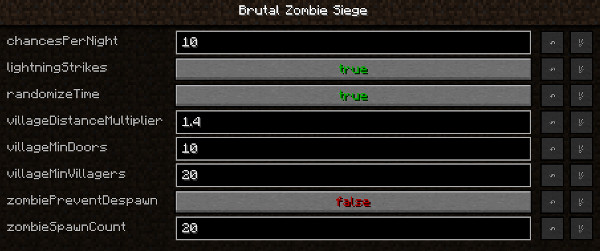
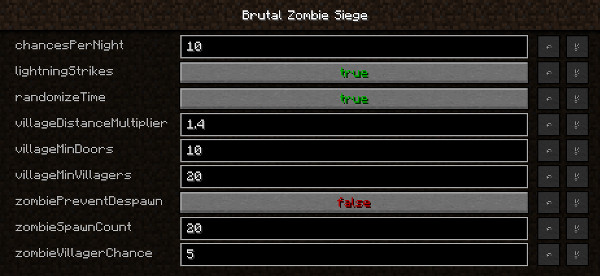
A bit of code cleanup, added support for registering other SiegeAIBase handlers, Zombie Villager chances are now adjustable.

diff --git a/src/main/java/net/micmu/mcmods/micsiege/core/SiegeCore.java b/src/main/java/net/micmu/mcmods/micsiege/core/SiegeCore.java
@@ -1,6 +1,12 @@
 package net.micmu.mcmods.micsiege.core;
 
 import java.lang.reflect.Field;
+import java.util.ArrayList;
+import java.util.HashSet;
+import java.util.List;
+import java.util.Set;
+
+import javax.annotation.Nonnull;
 
 import net.minecraft.village.VillageSiege;
 import net.minecraft.world.WorldServer;
@@ -15,6 +21,7 @@ import net.micmu.mcmods.micsiege.MicSiegeMod;
 public class SiegeCore {
     private static final SiegeCore INSTANCE = new SiegeCore();
 
+    private final Set<Class<? extends SiegeAIBase>> siegeClasses = new HashSet<>(4);
     private boolean exceptionDumped = false;
     private Field injectField = null;
 
@@ -30,6 +37,24 @@ public class SiegeCore {
      *
      */
     private SiegeCore() {
+        // The default siege... only 1 so far.
+        registerSiege(SiegeZombies.class);
+    }
+
+    /**
+     *
+     * @param siegeAIClass
+     */
+    public void registerSiege(@Nonnull Class<? extends SiegeAIBase> siegeAIClass) {
+        siegeClasses.add(siegeAIClass);
+    }
+
+    /**
+     *
+     * @param siegeAIClass
+     */
+    public void unregisterSiege(@Nonnull Class<? extends SiegeAIBase> siegeAIClass) {
+        siegeClasses.remove(siegeAIClass);
     }
 
     /**
@@ -37,7 +62,7 @@ public class SiegeCore {
      * @param world
      * @return
      */
-    public boolean setupWorld(WorldServer world) {
+    public boolean initializeWorld(@Nonnull WorldServer world) {
         final int dimension = world.provider.getDimension();
         try {
             Field f = this.injectField;
@@ -47,28 +72,64 @@ public class SiegeCore {
                 this.injectField = f;
             }
             VillageSiege siege = (VillageSiege)f.get(world);
-            if ((dimension == -1) || (dimension == 1)) {
+            List<SiegeAIBase> handlers = createSiegeHandlers(world);
+            if (handlers.isEmpty()) {
                 // Disable village siege mechanics in Nether and End
                 if (!(siege instanceof VillageSiegeDisable)) {
                     f.set(world, new VillageSiegeDisable());
                     if (MicSiegeMod.LOG.isDebugEnabled())
-                        MicSiegeMod.LOG.debug("Disabled Zombie Siege mechanics for world: " + dimension + " [" + world.getClass().getName() + "]");
+                        MicSiegeMod.LOG.debug("Disabled Zombie Siege mechanics for world " + dimension + ".");
                     return true;
                 }
             } else if (!(siege instanceof VillageSiegeManager)) {
-                f.set(world, new VillageSiegeManager(world));
-                if (MicSiegeMod.LOG.isDebugEnabled())
-                    MicSiegeMod.LOG.debug("Injected replacement Zombie Siege mechanics for world: " + dimension + " [" + world.getClass().getName() + "]");
+                f.set(world, new VillageSiegeManager(world, handlers.toArray(new SiegeAIBase[handlers.size()])));
+                if (MicSiegeMod.LOG.isDebugEnabled()) {
+                    StringBuilder sb = new StringBuilder(128);
+                    sb.append("Injected replacement Zombie Siege mechanics for world ");
+                    sb.append(dimension);
+                    sb.append(" (");
+                    boolean v = false;
+                    for (SiegeAIBase b : handlers) {
+                        if (v)
+                            sb.append(", ");
+                        else
+                            v = true;
+                        sb.append(b.getClass().getName());
+                    }
+                    sb.append(')');
+                    MicSiegeMod.LOG.debug(sb.toString());
+                }
                 return true;
             }
         } catch (Throwable t) {
             this.injectField = null;
             if (!exceptionDumped) {
                 exceptionDumped = true;
-                MicSiegeMod.LOG.error("Minecraft/Forge compatiblitiy issue?", t);
+                MicSiegeMod.LOG.error("Minecraft/Forge/other mod compatiblitiy issue?", t);
             }
             MicSiegeMod.LOG.error("*** Failed to set up Zombie Siege mechanics! Enchanced Zombie Siege mechanics will not work! ***");
         }
         return false;
+    }
+
+    /**
+     *
+     * @param world
+     * @return
+     * @throws InstantiationException
+     * @throws IllegalAccessException
+     */
+    private List<SiegeAIBase> createSiegeHandlers(@Nonnull WorldServer world) throws InstantiationException, IllegalAccessException {
+        List<SiegeAIBase> out = new ArrayList<>();
+        int i = 0;
+        SiegeAIBase b;
+        for (Class<? extends SiegeAIBase> c : siegeClasses) {
+            b = c.newInstance();
+            b.setWorld(world);
+            if (b.onInitializeWorld())
+                out.add(b);
+            b.setWorld(null);
+        }
+        return out;
     }
 }

diff --git a/src/main/java/net/micmu/mcmods/micsiege/core/SiegeZombies.java b/src/main/java/net/micmu/mcmods/micsiege/core/SiegeZombies.java
@@ -41,6 +41,15 @@ public class SiegeZombies extends SiegeAIBase {
      *
      */
     @Override
+    protected boolean onInitializeWorld() {
+        int d = getWorld().provider.getDimension();
+        return (d != -1) && (d != 1); // No Zombie Siege in Nether and End
+    }
+
+    /**
+     *
+     */
+    @Override
     protected void onStop() {
         siegePos = null;
         huskCache = null;
@@ -138,12 +147,10 @@ public class SiegeZombies extends SiegeAIBase {
     @Override
     protected void tick() {
         EntityZombie z;
-        int r = getRNG().nextInt(100);
-        if ((r < 20) && (r >= 10)) {
-            // Spawns Zombie Villagers also
+        int c = Config.zombieVillagerChance;
+        if ((c > 0) && ((c >= 100) || (c > getRNG().nextInt(100)))) {
             z = new EntityZombieVillager(getWorld());
-        } else if ((r >= 50) && isHuskBiome()) {
-            // In a desert, spawn husks also
+        } else if (isHuskBiome() && getRNG().nextBoolean()) {
             z = new EntityHusk(getWorld());
         } else {
             z = new EntityZombie(getWorld());

diff --git a/src/main/java/net/micmu/mcmods/micsiege/core/SiegeAIBase.java b/src/main/java/net/micmu/mcmods/micsiege/core/SiegeAIBase.java
@@ -107,14 +107,6 @@ public abstract class SiegeAIBase {
 
     /**
      *
-     * @return
-     */
-    protected String getUnlocalizedName() {
-        return "micvillage.siege.start";
-    }
-
-    /**
-     *
      * @param precise
      * @return
      */
@@ -141,6 +133,14 @@ public abstract class SiegeAIBase {
      *
      */
     protected void onCheck() {
+    }
+
+    /**
+     *
+     * @return
+     */
+    protected boolean onInitializeWorld() {
+        return true;
     }
 
     /**

diff --git a/src/main/java/net/micmu/mcmods/micsiege/Config.java b/src/main/java/net/micmu/mcmods/micsiege/Config.java
@@ -39,4 +39,8 @@ public class Config {
 
     @Comment("If 'true', spawned zombies will not despawn until killed.\nThis option is useful if you are using large 'villageDistanceMultiplier'.")
     public static boolean zombiePreventDespawn = false;
+
+    @Comment("Chance for a Zombie Villager to spawn instead of a regular one (percentage).\nValue for vanilla sieges is 0.")
+    @RangeInt(min = 0, max = 100)
+    public static int zombieVillagerChance = 5;
 }

diff --git a/src/main/java/net/micmu/mcmods/micsiege/core/VillageSiegeManager.java b/src/main/java/net/micmu/mcmods/micsiege/core/VillageSiegeManager.java
@@ -20,11 +20,12 @@ final class VillageSiegeManager extends VillageSiege {
     /**
      *
      * @param world
+     * @param sieges
      */
-    VillageSiegeManager(World world) {
+    VillageSiegeManager(World world, SiegeAIBase[] sieges) {
         super(null);
         this.world = world;
-        this.sieges = new SiegeAIBase[] { new SiegeZombies() };
+        this.sieges = sieges;
         this.tick = 100 + world.rand.nextInt(150);
     }
 

diff --git a/src/main/java/net/micmu/mcmods/micsiege/MicSiegeMod.java b/src/main/java/net/micmu/mcmods/micsiege/MicSiegeMod.java
@@ -41,7 +41,7 @@ public class MicSiegeMod {
     public static void onWorldLoad(WorldEvent.Load event) {
         final World world = event.getWorld();
         if (!world.isRemote && (world instanceof WorldServer))
-            SiegeCore.getInstance().setupWorld((WorldServer)world);
+            SiegeCore.getInstance().initializeWorld((WorldServer)world);
     }
 
     /**

diff --git a/src/main/java/net/micmu/mcmods/micsiege/core/VillageSiegeDisable.java b/src/main/java/net/micmu/mcmods/micsiege/core/VillageSiegeDisable.java
@@ -20,6 +20,6 @@ final class VillageSiegeDisable extends VillageSiege {
      */
     @Override
     public void tick() {
-        // Sieges are disabled. Do NOTHING.
+        // Sieges are disabled. Do nothing.
     }
 }
